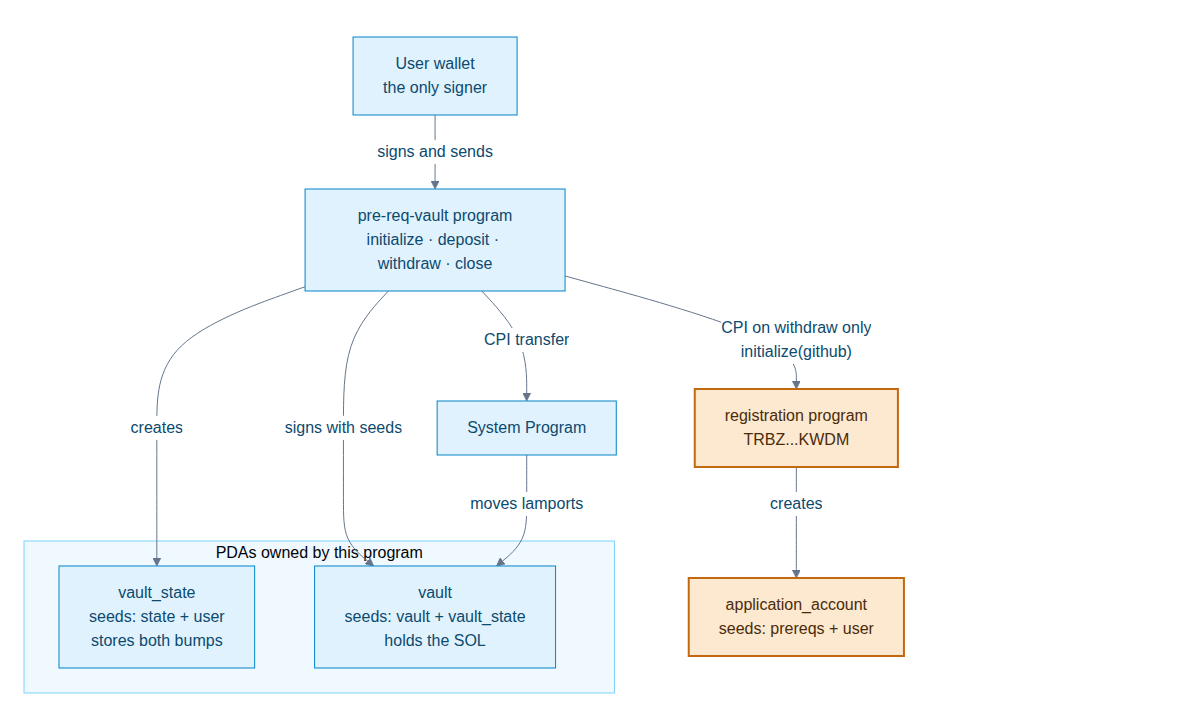
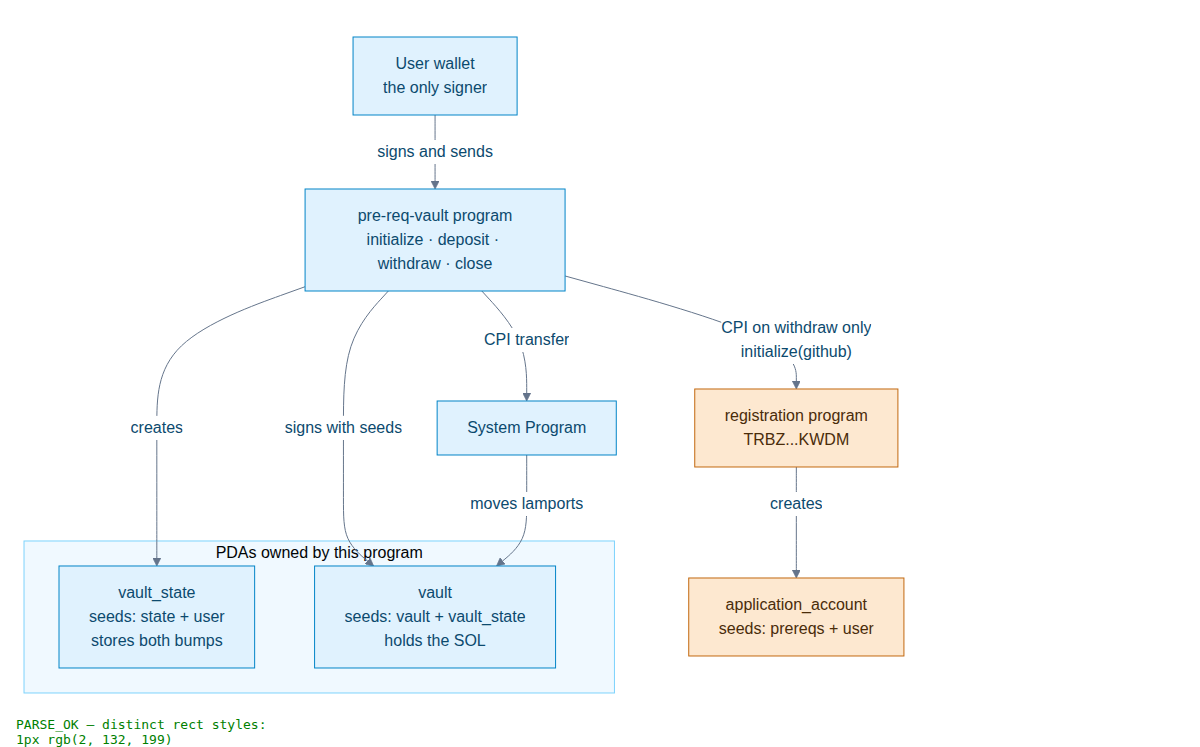
Give every node the same border weight
classDef default was also painting the inner rect Mermaid puts inside each
node, so the orange CPI boxes kept a blue inner edge and read as double
bordered. Theme variables handle the base palette instead.

diff --git a/README.md b/README.md
@@ -33,7 +33,7 @@ flowchart TD
     P -->|"CPI on withdraw only<br/>initialize(github)"| REG
     REG -->|creates| APP
 
-    classDef cpi fill:#fde8d0,stroke:#c2680f,stroke-width:2px,color:#4a2c0a
+    classDef cpi fill:#fde8d0,stroke:#c2680f,color:#4a2c0a
     class REG,APP cpi
 ```
 
